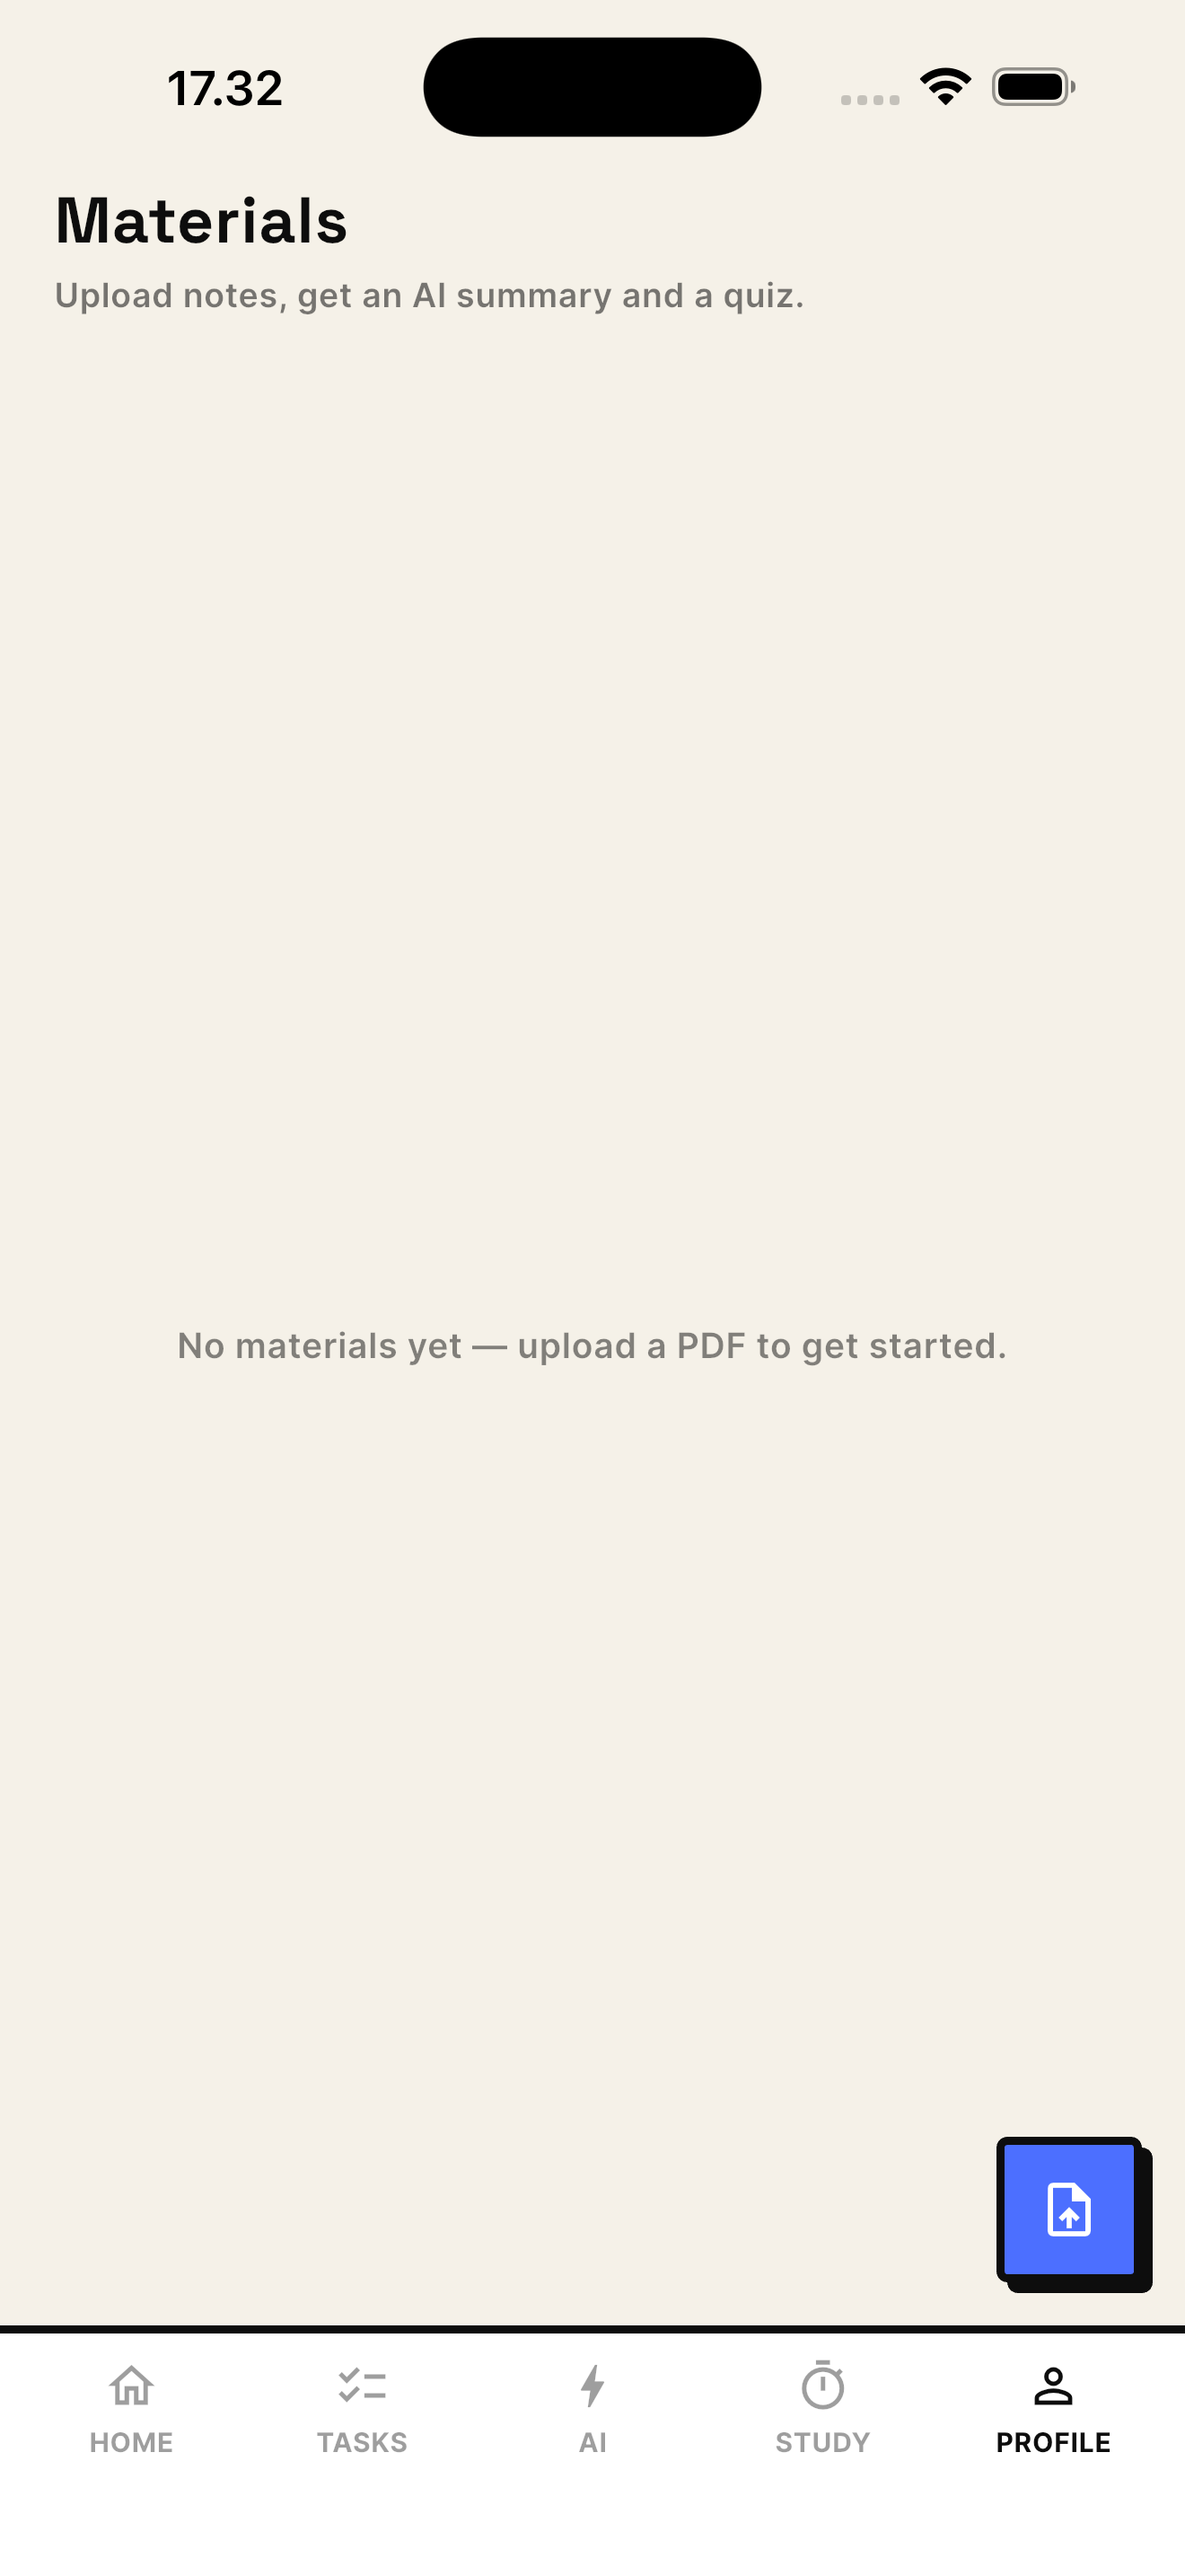
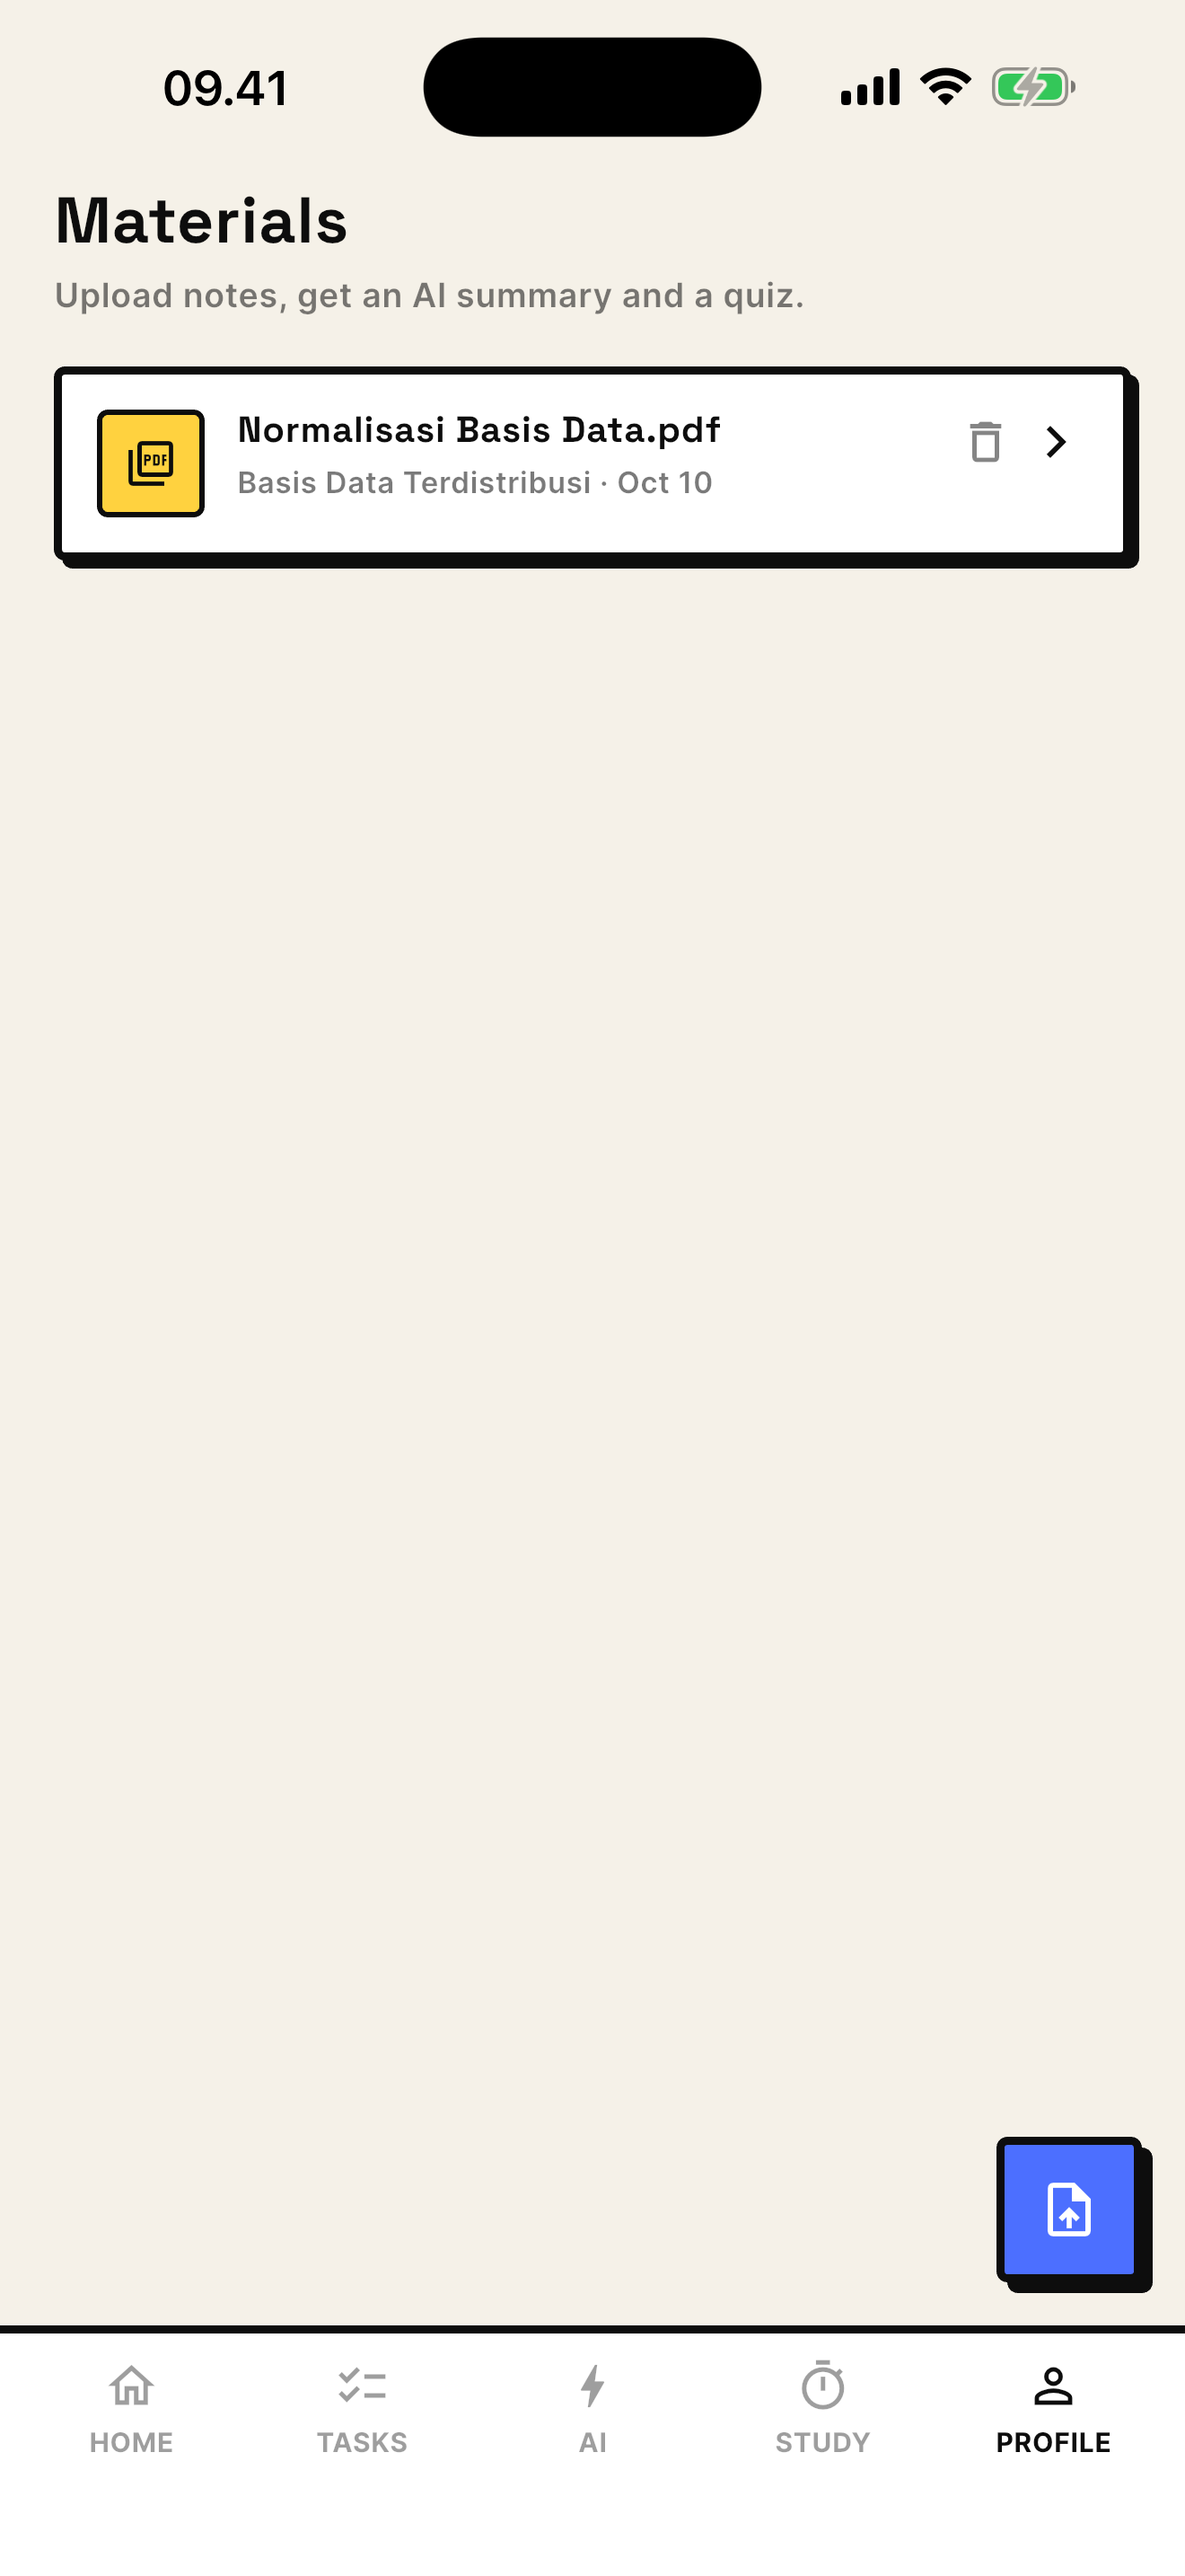
Fix tanggal nama hari di Snap & Go + perbarui screenshot booth
- Prompt Snap & Go dikasih kalender 14 hari (nama hari Indonesia) supaya
  "Jumat" / "Rabu depan" gak salah dihitung LLM
- Screenshot baru: Snap & Go, menu aksi task, ringkasan materi, kuis;
  Home/Tasks/Profile/Materials diambil ulang
- Skrip integration_test/booth_screenshots_test.dart buat ambil ulang
- README: tabel screenshot & angka test (131 / 100)

diff --git a/mobile/integration_test/booth_screenshots_test.dart b/mobile/integration_test/booth_screenshots_test.dart
@@ -1,0 +1,168 @@
+// Bukan test fungsional — skrip buat ngambil ulang screenshot README/booth.
+// App asli lawan backend lokal yg udah diisi `scripts/seed_demo.py`. Tiap layar
+// siap, test nge-print `SHOT:<nama>` lalu nunggu beberapa detik; runner di host
+// yg nangkep baris itu dan manggil `xcrun simctl io booted screenshot`.
+//
+//   flutter test integration_test/booth_screenshots_test.dart -d <simulator> \
+//     --dart-define=DEMO_PASSWORD=... | while read l; do ...; done
+import 'package:campusflow/core/network/local_cache.dart';
+import 'package:campusflow/core/widgets/brutal_bottom_nav.dart';
+import 'package:campusflow/core/widgets/brutal_text_field.dart';
+import 'package:campusflow/features/materials/presentation/quiz_screen.dart';
+import 'package:campusflow/main.dart';
+import 'package:flutter/material.dart';
+import 'package:flutter_riverpod/flutter_riverpod.dart';
+import 'package:flutter_test/flutter_test.dart';
+import 'package:integration_test/integration_test.dart';
+import 'package:shared_preferences/shared_preferences.dart';
+
+const _email = String.fromEnvironment('DEMO_EMAIL', defaultValue: 'demo@campusflow.app');
+const _password = String.fromEnvironment('DEMO_PASSWORD');
+
+const _announcement =
+    '[Info Kelas] Assalamualaikum teman-teman, reminder ya:\n'
+    '1. Kuis Basis Data Terdistribusi bab 4 hari Rabu depan jam 10.00\n'
+    '2. Laporan praktikum Kecerdasan Buatan modul 5 dikumpul Jumat jam 17.00 lewat e-learning\n'
+    '3. Presentasi SRS Rekayasa Perangkat Lunak Senin depan, siapkan slide per kelompok\n'
+    'Makasih 🙏';
+
+Future<void> _sleep(WidgetTester tester, int ms) =>
+    tester.runAsync(() => Future<void>.delayed(Duration(milliseconds: ms)));
+
+// pumpAndSettle gak nungguin HTTP beneran, jadi polling manual sampai muncul
+Future<void> waitFor(WidgetTester tester, Finder finder, {int seconds = 90}) async {
+  final end = DateTime.now().add(Duration(seconds: seconds));
+  while (DateTime.now().isBefore(end)) {
+    await tester.pump(const Duration(milliseconds: 100));
+    if (finder.evaluate().isNotEmpty) {
+      await tester.pumpAndSettle();
+      return;
+    }
+    await _sleep(tester, 400);
+  }
+  throw TestFailure('Timeout nunggu $finder');
+}
+
+Future<void> shot(WidgetTester tester, String name) async {
+  await tester.pumpAndSettle();
+  await _sleep(tester, 700);
+  await tester.pump();
+  // ignore: avoid_print
+  print('SHOT:$name');
+  await _sleep(tester, 3000);
+}
+
+Future<void> enterField(WidgetTester tester, String label, String text) async {
+  final field = find.byWidgetPredicate((w) => w is BrutalTextField && w.label == label);
+  await tester.enterText(find.descendant(of: field.first, matching: find.byType(TextField)), text);
+  await tester.pump();
+}
+
+Future<void> tapText(WidgetTester tester, String text) async {
+  final finder = find.text(text).last;
+  await tester.ensureVisible(finder);
+  await tester.pumpAndSettle();
+  await tester.tap(finder);
+  await tester.pumpAndSettle();
+}
+
+Future<void> tapNav(WidgetTester tester, String label) async {
+  await tester.tap(find.descendant(of: find.byType(BrutalBottomNav), matching: find.text(label)));
+  await tester.pumpAndSettle();
+  await _sleep(tester, 1500);
+  await tester.pumpAndSettle();
+}
+
+Future<void> hideKeyboard(WidgetTester tester) async {
+  FocusManager.instance.primaryFocus?.unfocus();
+  await tester.pumpAndSettle();
+  await _sleep(tester, 500);
+}
+
+void main() {
+  IntegrationTestWidgetsFlutterBinding.ensureInitialized();
+
+  testWidgets('screenshot booth', (tester) async {
+    expect(_password, isNotEmpty, reason: 'isi --dart-define=DEMO_PASSWORD=...');
+    // mulai dari kondisi bersih: gak ada sesi lama / gerbang Face ID
+    await (await SharedPreferences.getInstance()).clear();
+    await LocalCache.init();
+    await tester.pumpWidget(const ProviderScope(child: CampusFlowApp()));
+    await tester.pumpAndSettle();
+
+    // --- Login ---------------------------------------------------------------
+    await enterField(tester, 'Email', _email);
+    await enterField(tester, 'Password', _password);
+    await hideKeyboard(tester);
+    await shot(tester, '01_login');
+    await tapText(tester, 'LOG IN');
+    await waitFor(tester, find.textContaining('Hi, '));
+    await _sleep(tester, 2500);
+    await shot(tester, '03_home');
+
+    // --- Tasks + menu aksi --------------------------------------------------
+    await tapNav(tester, 'TASKS');
+    await shot(tester, '04_tasks');
+    await tester.tap(find.byIcon(Icons.more_vert).first);
+    await tester.pumpAndSettle();
+    await shot(tester, '25_task_actions');
+    await tapText(tester, 'EDIT TASK');
+    await shot(tester, '26_edit_task');
+    await tapText(tester, 'CANCEL');
+
+    // --- Snap & Go (paste teks pengumuman -> AI -> review -> Tasks) ----------
+    await tester.tap(find.byIcon(Icons.photo_camera_outlined).first);
+    await tester.pumpAndSettle();
+    await shot(tester, '27_snap_pick');
+    await tapText(tester, 'Paste text');
+    await enterField(tester, 'Announcement', _announcement);
+    await hideKeyboard(tester);
+    await shot(tester, '28_snap_paste');
+    await tapText(tester, 'READ WITH AI');
+    await waitFor(tester, find.textContaining(RegExp(r'^Found \d')));
+    await shot(tester, '30_snap_review');
+    await tester.tap(find.textContaining(RegExp(r'^ADD \d+ TO TASKS')));
+    await tester.pump();
+    await waitFor(tester, find.text('Tasks'));
+    await shot(tester, '31_snap_added');
+    await _sleep(tester, 3000);
+    await tester.pumpAndSettle();
+
+    // --- Profile -> Materials -> ringkasan & kuis ---------------------------
+    await tapNav(tester, 'PROFILE');
+    await shot(tester, '21_profile_full');
+    await tapText(tester, 'Upload notes, get AI summaries & quizzes');
+    await waitFor(tester, find.textContaining('Normalisasi'));
+    await shot(tester, '22_materials');
+    await tester.tap(find.textContaining('Normalisasi').first);
+    await tester.pumpAndSettle();
+    await shot(tester, '32_material_detail');
+    await tapText(tester, 'SUMMARIZE');
+    await waitFor(tester, find.text('KEY POINTS'));
+    await tester.drag(find.byType(SingleChildScrollView).last, const Offset(0, -500));
+    await shot(tester, '33_material_summary');
+    await tester.drag(find.byType(SingleChildScrollView).last, const Offset(0, 1500));
+    await tester.pumpAndSettle();
+    await tapText(tester, 'GENERATE QUIZ');
+    await waitFor(tester, find.textContaining('QUESTION 1 OF'));
+    await shot(tester, '34_quiz_question');
+
+    // jawab semua soal pakai kunci jawaban dari quiz-nya sendiri
+    final quiz = tester.widget<QuizScreen>(find.byType(QuizScreen)).quiz;
+    var index = 0;
+    var first = true;
+    while (find.textContaining(RegExp(r'^QUESTION \d+ OF')).evaluate().isNotEmpty) {
+      final option = find.byWidgetPredicate((w) => w.runtimeType.toString() == '_OptionTile');
+      await tester.tap(option.at(quiz.questions[index++].correctIndex));
+      await tester.pumpAndSettle();
+      if (first) {
+        await shot(tester, '35_quiz_answered');
+        first = false;
+      }
+      final next = find.text('NEXT QUESTION');
+      await tapText(tester, next.evaluate().isNotEmpty ? 'NEXT QUESTION' : 'SEE RESULTS');
+    }
+    await waitFor(tester, find.text('Quiz complete'));
+    await shot(tester, '36_quiz_result');
+  });
+}

diff --git a/backend/app/services/snap_service.py b/backend/app/services/snap_service.py
@@ -4,7 +4,7 @@ baru kesimpen pas user konfirmasi lewat /ai/chat/confirm-tasks."""
 from __future__ import annotations
 
 import base64
-from datetime import datetime, timezone
+from datetime import datetime, timedelta, timezone
 from typing import Any
 
 from app.core.config import settings
@@ -58,6 +58,20 @@ def detect_audio_ext(data: bytes) -> str | None:
     return None
 
 
+HARI = ["Senin", "Selasa", "Rabu", "Kamis", "Jumat", "Sabtu", "Minggu"]
+
+
+def upcoming_calendar(now: datetime, days: int = 14) -> str:
+    """Daftar tanggal + nama hari ke depan. LLM sering salah ngitung "Jumat" /
+    "Rabu depan" kalau cuma dikasih tanggal hari ini, jadi dikasih contekan."""
+    lines = []
+    for i in range(days):
+        d = now + timedelta(days=i)
+        label = " (hari ini)" if i == 0 else " (besok)" if i == 1 else ""
+        lines.append(f"- {HARI[d.weekday()]} {d.strftime('%Y-%m-%d')}{label}")
+    return "\n".join(lines)
+
+
 def build_snap_content(
     *,
     image: bytes | None,
@@ -65,9 +79,17 @@ def build_snap_content(
     text: str | None,
     course_names: list[str],
 ) -> list[dict[str, Any]]:
-    today = datetime.now(settings.tz).strftime("%Y-%m-%d (%A)")
+    now = datetime.now(settings.tz)
+    today = f"{HARI[now.weekday()]} {now.strftime('%Y-%m-%d')}"
     courses = ", ".join(course_names) if course_names else "(belum ada)"
-    intro = f"Hari ini: {today}.\nMata kuliah milik mahasiswa: {courses}."
+    intro = (
+        f"Hari ini: {today}.\n"
+        "Kalender 14 hari ke depan — cocokkan nama hari ke tabel ini, jangan dihitung "
+        'sendiri. Nama hari ("Jumat", "Rabu depan") = tanggal terdekat SETELAH hari ini '
+        'dengan nama hari itu; "minggu depan" tanpa nama hari = Senin berikutnya:\n'
+        f"{upcoming_calendar(now)}\n"
+        f"Mata kuliah milik mahasiswa: {courses}."
+    )
     if text:
         intro += f"\n\nTeks pengumuman:\n{text}"
     intro += "\n\nEkstrak daftar tugasnya."

diff --git a/README.md b/README.md
@@ -17,7 +17,7 @@ Dibangun sebagai final project mata kuliah Mobile Development.
 | **Auth** | JWT access + refresh token, password di-hash bcrypt |
 | **Fitur AI** | Groq API (`openai/gpt-oss-120b`) — chat planner, penyusun jadwal, ringkasan & kuis materi |
 | **Platform** | iOS (iPhone) dan Android, satu codebase Flutter |
-| **Testing** | pytest (backend, 73 test), flutter_test unit+widget (mobile, 73 test), plus 1 integration test end-to-end — semuanya hijau |
+| **Testing** | pytest (backend, 131 test), flutter_test unit+widget (mobile, 100 test), plus 1 integration test end-to-end — semuanya hijau |
 
 ### Fitur
 
@@ -416,7 +416,7 @@ pip install -r requirements-dev.txt
 pytest -v
 ```
 
-**Hasil: 73 passed.** (lihat `screenshots/testing/` untuk screenshot hasil run-nya)
+**Hasil: 131 passed.** (lihat `screenshots/testing/` untuk screenshot hasil run-nya)
 
 | File | Cakupan |
 |---|---|
@@ -447,7 +447,7 @@ cd mobile
 flutter test
 ```
 
-**Hasil: 73 passed.** (lihat `screenshots/testing/` untuk screenshot hasil run-nya)
+**Hasil: 100 passed.** (lihat `screenshots/testing/` untuk screenshot hasil run-nya)
 
 | File | Cakupan |
 |---|---|
@@ -482,20 +482,24 @@ kejadwal. Hasil: **all tests passed** — lihat `screenshots/testing/mobile_inte
 
 ## 7. Screenshot
 
-Semua ada di folder [`screenshots/`](screenshots/), diambil langsung dari app (akun demo
-`test2@gmail.com`) di iPhone 17 Pro Max Simulator:
+Semua ada di folder [`screenshots/`](screenshots/), diambil langsung dari app di
+iPhone 17 Pro Max Simulator. Layar yang ikut berubah sejak Snap & Go, materi, dan kuis
+ditambahkan diambil ulang pakai akun demo booth (`scripts/seed_demo.py`) lewat
+`mobile/integration_test/booth_screenshots_test.dart`.
 
 | Alur | File |
 |---|---|
 | Login & Register | `01_login.png`, `02_register.png` |
-| Home (setelah login) | `03_home.png` |
-| Tasks (daftar + form tambah) | `04_tasks.png`, `05_add_task_sheet.png` |
+| Home (Snap & Go, plan hari ini, Today's Focus) | `03_home.png` |
+| Tasks (daftar, menu aksi, edit, form tambah) | `04_tasks.png`, `25_task_actions.png`, `26_edit_task.png`, `05_add_task_sheet.png` |
+| **Snap & Go** — paste pengumuman grup kelas → AI → task | `27_snap_pick.png` → `28_snap_paste.png` → `29_snap_review.png` → `30_snap_added.png` |
 | AI Planner — pilihan | `06_ai_choice.png` |
 | AI Planner — generate random | `07_ai_random_ask.png` → `08_ai_random_reply.png` → `09_ai_random_generated.png` |
 | AI Planner — adjust plan aktif | `10_ai_adjust_input.png` → `11_ai_adjust_result.png` |
 | AI Planner — chat bebas | `12_ai_chat_empty.png` → `13_ai_chat_reply.png` → `15_ai_chat_generated.png` |
 | Study session (timer, fast-forward, feedback) | `16_study_idle.png` → `17_study_running.png` → `18_study_fastforward.png` → `19_study_feedback.png` → `20_tasks_after_session.png` |
-| Profile (mata kuliah, Face ID, materials) | `21_profile_full.png`, `22_materials.png`, `23_edit_profile.png`, `24_change_password.png` |
+| Profile (mata kuliah, materials, akun) | `21_profile_full.png`, `23_edit_profile.png`, `24_change_password.png` |
+| **Materi PDF** — ringkasan AI & kuis | `22_materials.png` → `31_material_detail.png` → `32_material_summary.png` → `33_quiz_question.png` → `34_quiz_answered.png` → `35_quiz_result.png` |
 | Hasil testing — unit, widget, & integration test | [`screenshots/testing/`](screenshots/testing/) |
 
 ---
@@ -513,7 +517,7 @@ Semua ada di folder [`screenshots/`](screenshots/), diambil langsung dari app (a
 │   │   ├── routers/       # auth, courses, tasks, study_sessions, materials, ai
 │   │   ├── services/      # planning_service, groq_service, chat_service, materials_service
 │   │   └── alembic/       # migrasi
-│   └── tests/             # 73 test, lihat §6.1
+│   └── tests/             # 131 test, lihat §6.1
 ├── mobile/
 │   ├── lib/
 │   │   ├── core/
@@ -524,8 +528,8 @@ Semua ada di folder [`screenshots/`](screenshots/), diambil langsung dari app (a
 │   │   │   └── notifications/ # NotificationService (reminder task & sesi)
 │   │   ├── features/      # auth (+biometric), dashboard, tasks, courses, planner, materials, study_session, profile
 │   │   └── main.dart
-│   └── test/               # 73 test, lihat §6.2
-├── screenshots/            # screenshot tiap layar (pakai akun test2@gmail.com) + hasil testing
+│   └── test/               # 100 test, lihat §6.2
+├── screenshots/            # screenshot tiap layar + hasil testing
 ├── design/                 # mockup HTML desain
 └── README.md
 ```
